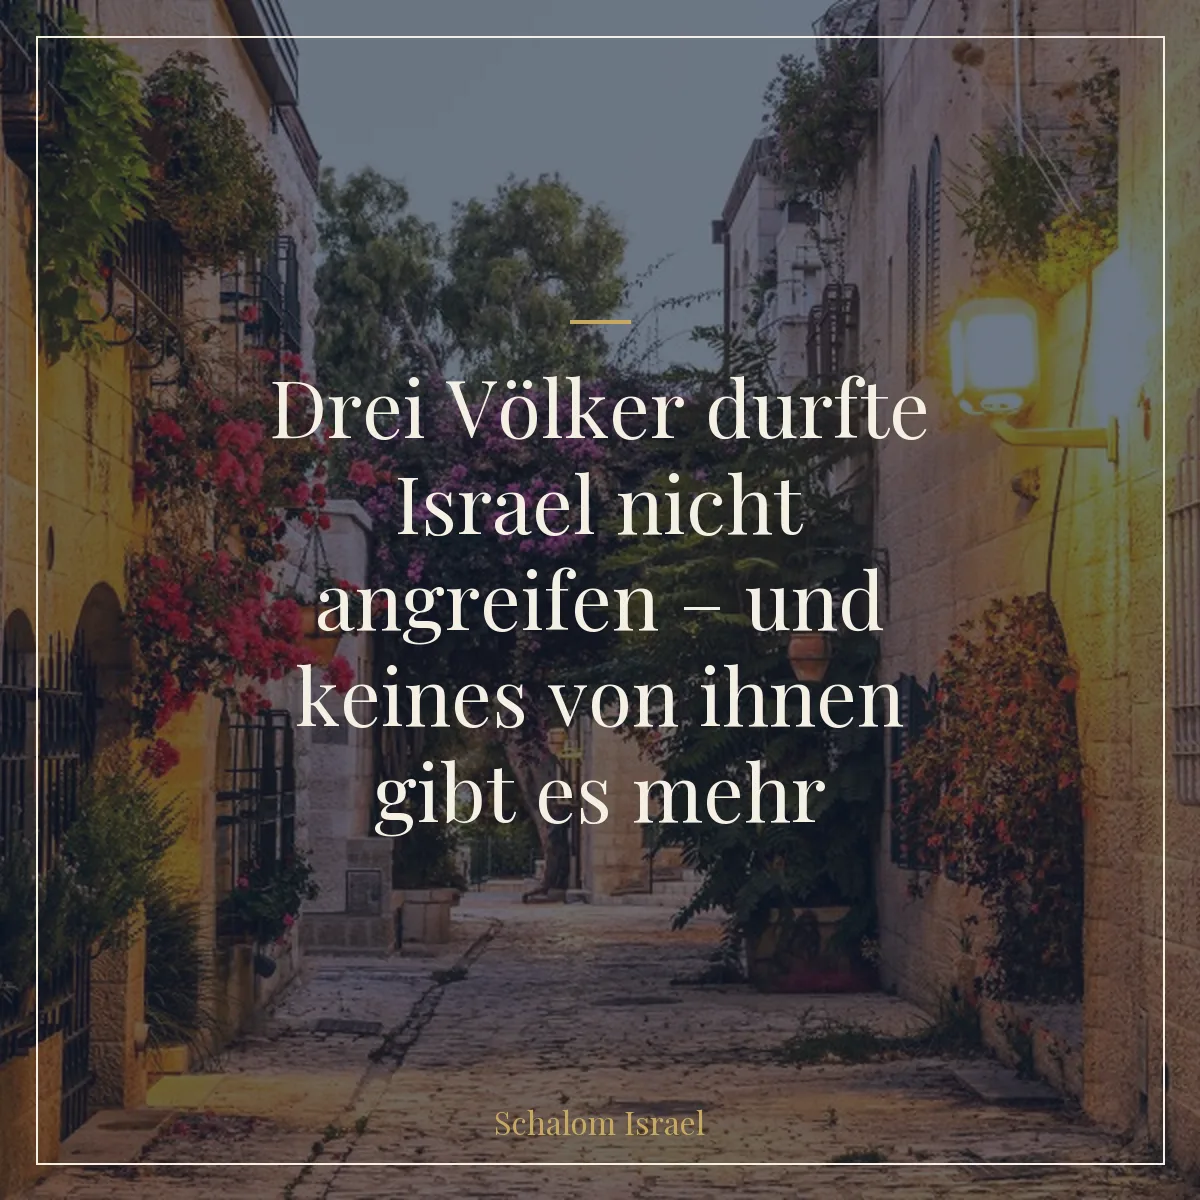
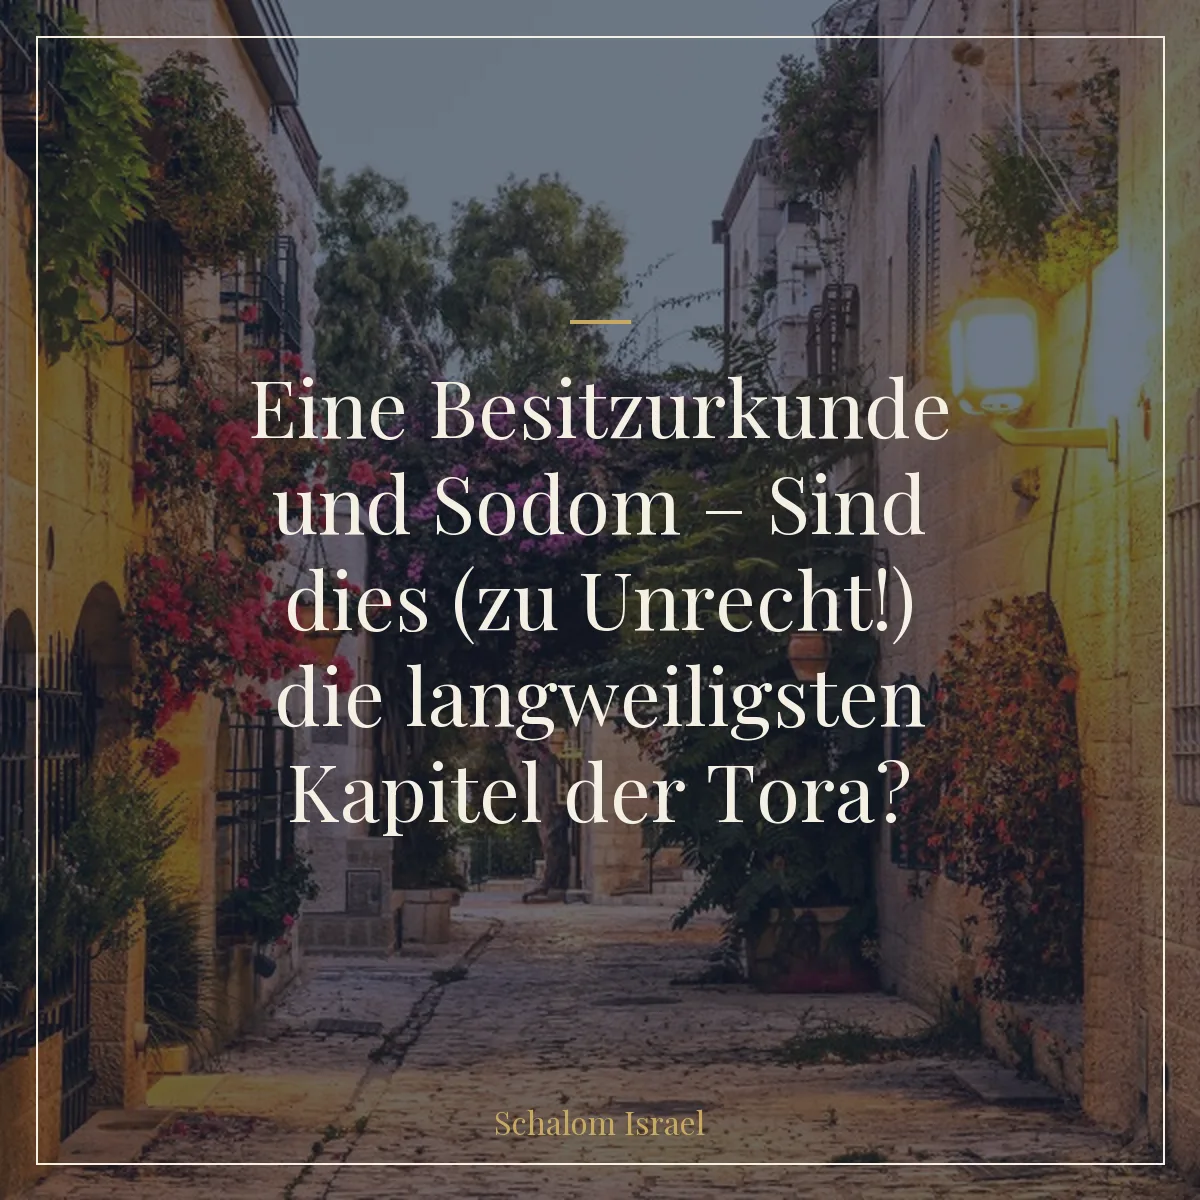
feat(si): neuer Titel fuer den Devarim-Artikel (Besitzurkunde und Sodom)

Changed region(s): [[0.2158, 0.4008, 0.7708, 0.7092], [0.2158, 0.3083, 0.8017, 0.37]]

diff --git a/drei-voelker-nicht-angreifen/index.html b/drei-voelker-nicht-angreifen/index.html
@@ -4,9 +4,9 @@
   <meta charset="UTF-8">
   <link rel="icon" type="image/svg+xml" href="/favicon.svg">
   <meta name="viewport" content="width=device-width, initial-scale=1.0">
-  <title>Drei Völker durfte Israel nicht angreifen – und keines von ihnen gibt es mehr – Schalom Israel</title>
+  <title>Eine Besitzurkunde und Sodom – Sind dies (zu Unrecht!) die langweiligsten Kapitel der Tora? – Schalom Israel</title>
   <meta name="description" content="Devarim beschreibt Kriege bis ins kleinste Detail – und drei Völker, die Israel aus Familienrücksicht verschonen musste: Edom, Moab, Ammon. Was sie daraus machten, warum die Kriegsberichte kein Beiwerk sind, und warum heute keines dieser Völker mehr existiert.">
-  <meta property="og:title" content="Drei Völker durfte Israel nicht angreifen – und keines von ihnen gibt es mehr">
+  <meta property="og:title" content="Eine Besitzurkunde und Sodom – Sind dies (zu Unrecht!) die langweiligsten Kapitel der Tora?">
   <meta property="og:description" content="Devarim beschreibt Kriege bis ins kleinste Detail – und drei Völker, die Israel aus Familienrücksicht verschonen musste: Edom, Moab, Ammon. Was sie daraus machten, warum die Kriegsberichte kein Beiwerk sind, und warum heute keines dieser Völker mehr existiert.">
   <meta property="og:image" content="https://www.schalomisrael.de/bilder/share/drei-voelker-nicht-angreifen.webp">
   <meta property="og:url" content="https://www.schalomisrael.de/drei-voelker-nicht-angreifen/">
@@ -22,7 +22,7 @@
   {
   "@context": "https://schema.org",
   "@type": "Article",
-  "headline": "Drei Völker durfte Israel nicht angreifen – und keines von ihnen gibt es mehr",
+  "headline": "Eine Besitzurkunde und Sodom – Sind dies (zu Unrecht!) die langweiligsten Kapitel der Tora?",
   "description": "Devarim beschreibt Kriege bis ins kleinste Detail – und drei Völker, die Israel aus Familienrücksicht verschonen musste: Edom, Moab, Ammon. Was sie daraus machten, warum die Kriegsberichte kein Beiwerk sind, und warum heute keines dieser Völker mehr existiert.",
   "image": "https://www.schalomisrael.de/bilder/share/drei-voelker-nicht-angreifen.webp",
   "datePublished": "2026-07-17",
@@ -65,7 +65,7 @@
     {
       "@type": "ListItem",
       "position": 3,
-      "name": "Drei Völker durfte Israel nicht angreifen – und keines von ihnen gibt es mehr"
+      "name": "Eine Besitzurkunde und Sodom – Sind dies (zu Unrecht!) die langweiligsten Kapitel der Tora?"
     }
   ]
 }
@@ -84,7 +84,7 @@
         <span class="meta-divider">·</span>
         <span class="article-reading-time" data-reading-time>… Min Lesezeit</span>
       </div>
-      <h1 class="article-hero-title">Drei Völker durfte Israel nicht angreifen – und keines von ihnen gibt es mehr</h1>
+      <h1 class="article-hero-title">Eine Besitzurkunde und Sodom – Sind dies (zu Unrecht!) die langweiligsten Kapitel der Tora?</h1>
     </div>
   </header>
   <nav class="breadcrumb" aria-label="Brotkrumen-Navigation">
@@ -118,7 +118,7 @@
       <p><em>Wozu das alles?</em></p>
 
       <figure class="article-share-img">
-        <img src="/bilder/share/drei-voelker-nicht-angreifen.webp" alt="Drei Völker durfte Israel nicht angreifen – und keines von ihnen gibt es mehr" loading="lazy" width="1200" height="1200">
+        <img src="/bilder/share/drei-voelker-nicht-angreifen.webp" alt="Eine Besitzurkunde und Sodom – Sind dies (zu Unrecht!) die langweiligsten Kapitel der Tora?" loading="lazy" width="1200" height="1200">
       </figure>
 
       <p>Ich habe diese Kapitel jahrelang überflogen. Landkarte, dachte ich. Militärgeschichte. Notwendiges Beiwerk vor den eigentlichen Reden.</p>

diff --git a/themen/land-israel/index.html b/themen/land-israel/index.html
@@ -139,7 +139,7 @@
         "@type": "ListItem",
         "position": 1,
         "url": "https://www.schalomisrael.de/drei-voelker-nicht-angreifen/",
-        "name": "Drei Völker durfte Israel nicht angreifen – und keines von ihnen gibt es mehr"
+        "name": "Eine Besitzurkunde und Sodom – Sind dies (zu Unrecht!) die langweiligsten Kapitel der Tora?"
       },
       {
         "@type": "ListItem",
@@ -211,11 +211,11 @@
     <div class="container">
       <article class="article-card" data-parasha="devarim" data-book="dewarim">
         <a href="/drei-voelker-nicht-angreifen/" class="article-image-link">
-          <img src="/bilder/share/drei-voelker-nicht-angreifen.webp" alt="Drei Völker durfte Israel nicht angreifen – und keines von ihnen gibt es mehr" class="article-image">
+          <img src="/bilder/share/drei-voelker-nicht-angreifen.webp" alt="Eine Besitzurkunde und Sodom – Sind dies (zu Unrecht!) die langweiligsten Kapitel der Tora?" class="article-image">
         </a>
         <div class="article-body">
           <p class="article-author">Micha Levzion</p>
-          <h3 class="article-title"><a href="/drei-voelker-nicht-angreifen/">Drei Völker durfte Israel nicht angreifen – und keines von ihnen gibt es mehr</a></h3>
+          <h3 class="article-title"><a href="/drei-voelker-nicht-angreifen/">Eine Besitzurkunde und Sodom – Sind dies (zu Unrecht!) die langweiligsten Kapitel der Tora?</a></h3>
           <p class="article-excerpt">Die Kriegsberichte in Devarim sind kein Beiwerk, sondern eine Besitzurkunde für das Land. Und drei Völker musste Israel aus Familienrücksicht verschonen. Was sie daraus machten, und warum es heute keines von ihnen mehr gibt.</p>
           <a href="/drei-voelker-nicht-angreifen/" class="btn btn--outline">Beitrag lesen</a>
         </div>

diff --git a/blog/index.html b/blog/index.html
@@ -253,11 +253,11 @@
 
       <article class="article-card" data-parasha="devarim" data-book="dewarim">
         <a href="/drei-voelker-nicht-angreifen/" class="article-image-link">
-          <img src="../bilder/share/drei-voelker-nicht-angreifen.webp" alt="Drei Völker durfte Israel nicht angreifen – und keines von ihnen gibt es mehr" class="article-image">
+          <img src="../bilder/share/drei-voelker-nicht-angreifen.webp" alt="Eine Besitzurkunde und Sodom – Sind dies (zu Unrecht!) die langweiligsten Kapitel der Tora?" class="article-image">
         </a>
         <div class="article-body">
           <p class="article-author">Micha Levzion</p>
-          <h3 class="article-title"><a href="/drei-voelker-nicht-angreifen/">Drei Völker durfte Israel nicht angreifen – und keines von ihnen gibt es mehr</a></h3>
+          <h3 class="article-title"><a href="/drei-voelker-nicht-angreifen/">Eine Besitzurkunde und Sodom – Sind dies (zu Unrecht!) die langweiligsten Kapitel der Tora?</a></h3>
           <p class="article-excerpt">Devarim beschreibt Kriege bis ins kleinste Detail. Kein Beiwerk, sondern eine Besitzurkunde. Und mittendrin drei Völker, die Israel aus Familienrücksicht verschonen musste: Edom, Moab, Ammon. Was sie aus diesem geschenkten Segen machten, und warum heute keines von ihnen mehr existiert.</p>
           <a href="/drei-voelker-nicht-angreifen/" class="btn btn--outline">Beitrag lesen</a>
         </div>

diff --git a/index.html b/index.html
@@ -245,11 +245,11 @@
 
       <article class="article-card">
         <a href="/drei-voelker-nicht-angreifen/" class="article-image-link">
-          <img src="bilder/share/drei-voelker-nicht-angreifen.webp" alt="Drei Völker durfte Israel nicht angreifen – und keines von ihnen gibt es mehr" width="1200" height="1200" loading="lazy" class="article-image">
+          <img src="bilder/share/drei-voelker-nicht-angreifen.webp" alt="Eine Besitzurkunde und Sodom – Sind dies (zu Unrecht!) die langweiligsten Kapitel der Tora?" width="1200" height="1200" loading="lazy" class="article-image">
         </a>
         <div class="article-body">
           <p class="article-author">Micha Levzion</p>
-          <h3 class="article-title"><a href="/drei-voelker-nicht-angreifen/">Drei Völker durfte Israel nicht angreifen – und keines von ihnen gibt es mehr</a></h3>
+          <h3 class="article-title"><a href="/drei-voelker-nicht-angreifen/">Eine Besitzurkunde und Sodom – Sind dies (zu Unrecht!) die langweiligsten Kapitel der Tora?</a></h3>
           <p class="article-excerpt">Die Kriegsberichte in Devarim sind kein Beiwerk, sondern eine Besitzurkunde. Und drei Völker musste Israel verschonen, aus Familienrücksicht. Was sie daraus machten, und warum es heute keines von ihnen mehr gibt.</p>
           <a href="/drei-voelker-nicht-angreifen/" class="btn btn--outline">Beitrag lesen</a>
         </div>
